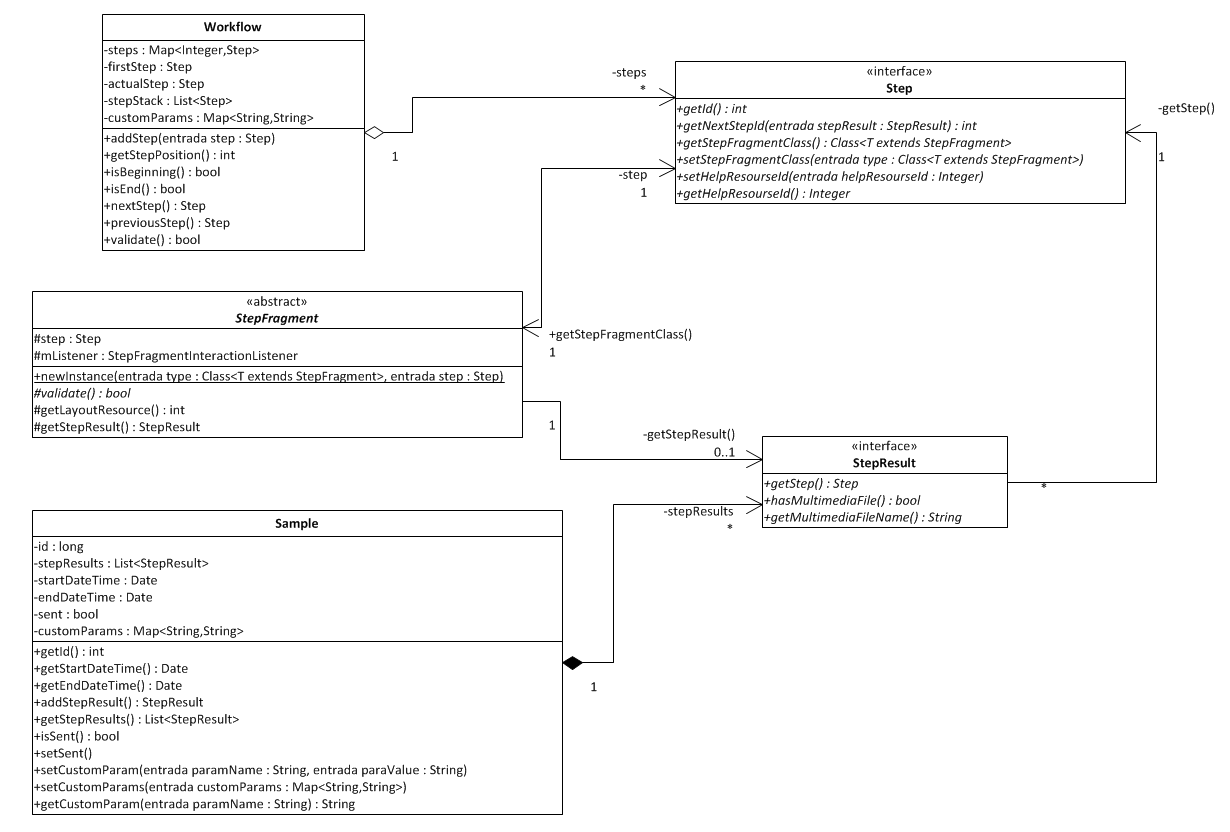
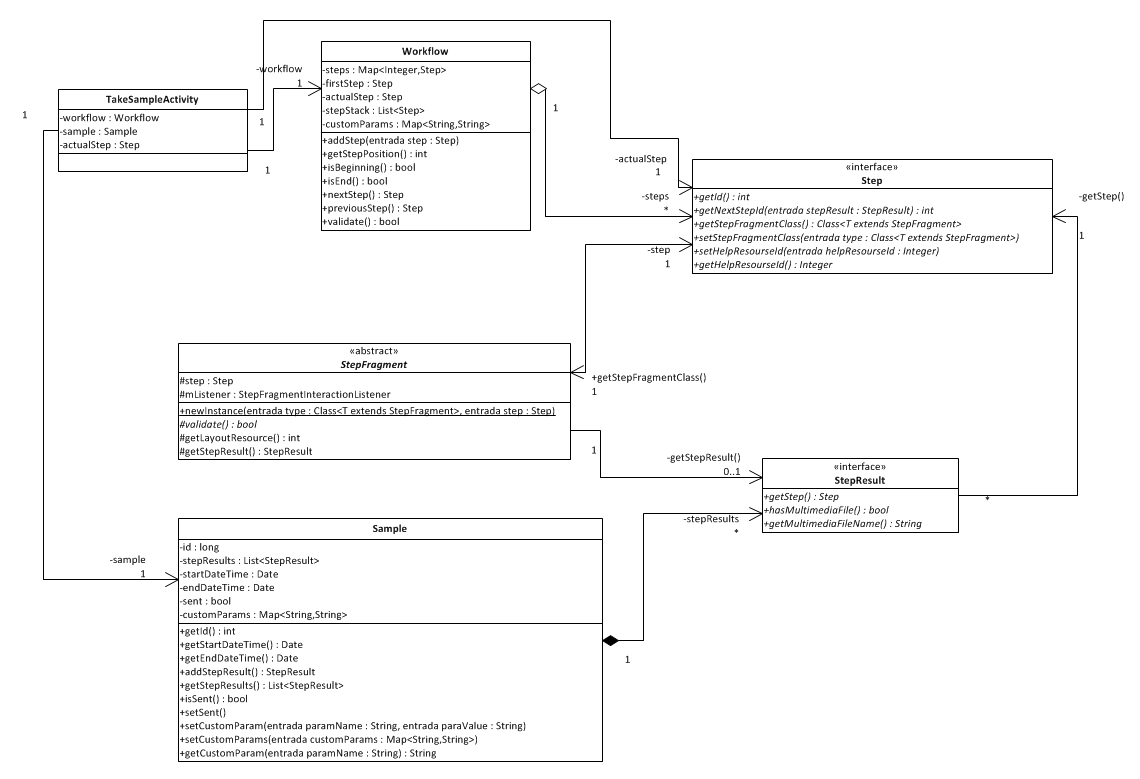
estructura del framework terminada

diff --git a/05-implementacion/implementacion.tex b/05-implementacion/implementacion.tex
@@ -198,17 +198,13 @@ El detalle de todos los parámetros, como configurar el archivo de configuració
 
 \section{Estructura del Framework}
 
-************************************
+Samplers está compuesto por dos elementos: una librería con las clases y demás recursos necesarios para crear la app y un script en Gradle para procesar el archivo de configuración.
 
+La librería es un archivo .aar, que es similar a un archivo .jar de Java, pero especifico para Android. En el mismo están todas las clases y los archivos de recursos de Android (como archivos XML con los diseños de IU de los Fragments y Activities, iconos, imágenes, etc).
 
-Samplers está compuesto por dos elementos: una librería con las clases y [demases (activities, fragments, recursos)] necesarias para crear la app y un script en Gradle para procesar el archivo de configuración.
+El script de Gradle es el que procesa el archivo de configuración de Samplers (SamplersConfig.json) y genera la app correspondiente usando las clases y recursos de la librería.
 
-La libreria es un archivo .aar, que es similar a un archivo .jar de Java, pero especifico para Android. En el mismo están todas las clases y los archivos de recursos del framework.
-
-************************************
-
-
-A continuación se explican las clases que permiten que se cree una aplicación móvil con Samplers y su funcionamiento.
+A continuación se explican las clases y componentes de Android que permiten que se cree una aplicación móvil con Samplers y su funcionamiento, y como se resolvieron cuestiones como el almacenamiento y envió de las muestras, la identificación de los usuarios que envían las muestras, etc.
 
 \subsection{Workflow, Step, StepFragment, StepResult, Sample}
 Estas clases conforman el corazón del framework, y son las necesarias para poder definir el protocolo de recolección de las muestras.
@@ -336,7 +332,7 @@ Además, un usuario programador del framework puede definir su propio método de
 
 Cuando se envía la muestra también se incluyen dos parámetros que son el id del usuario identificado y el método usado para identificar (que puede ser google o uno personalizado). Se envían de esta forma porque al momento de tomar la muestra el científico ciudadano puede no estar identificado, e identificarse antes de enviarlas.
 
-\subsection{Resto de la UI?? ANALIZAR}
+\subsection{Otros componentes de la app generada por Samplers}
 
 
 \subsubsection{SamplersMainActivity}
